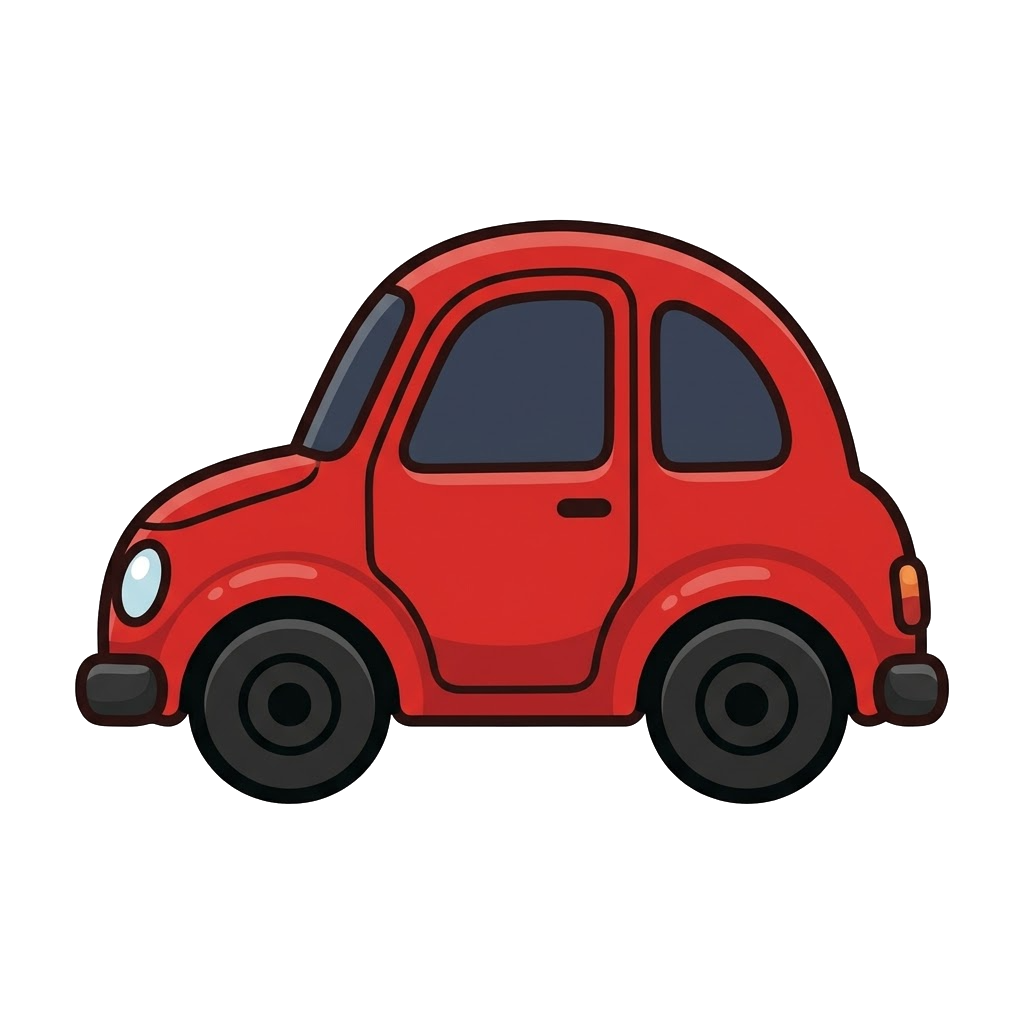
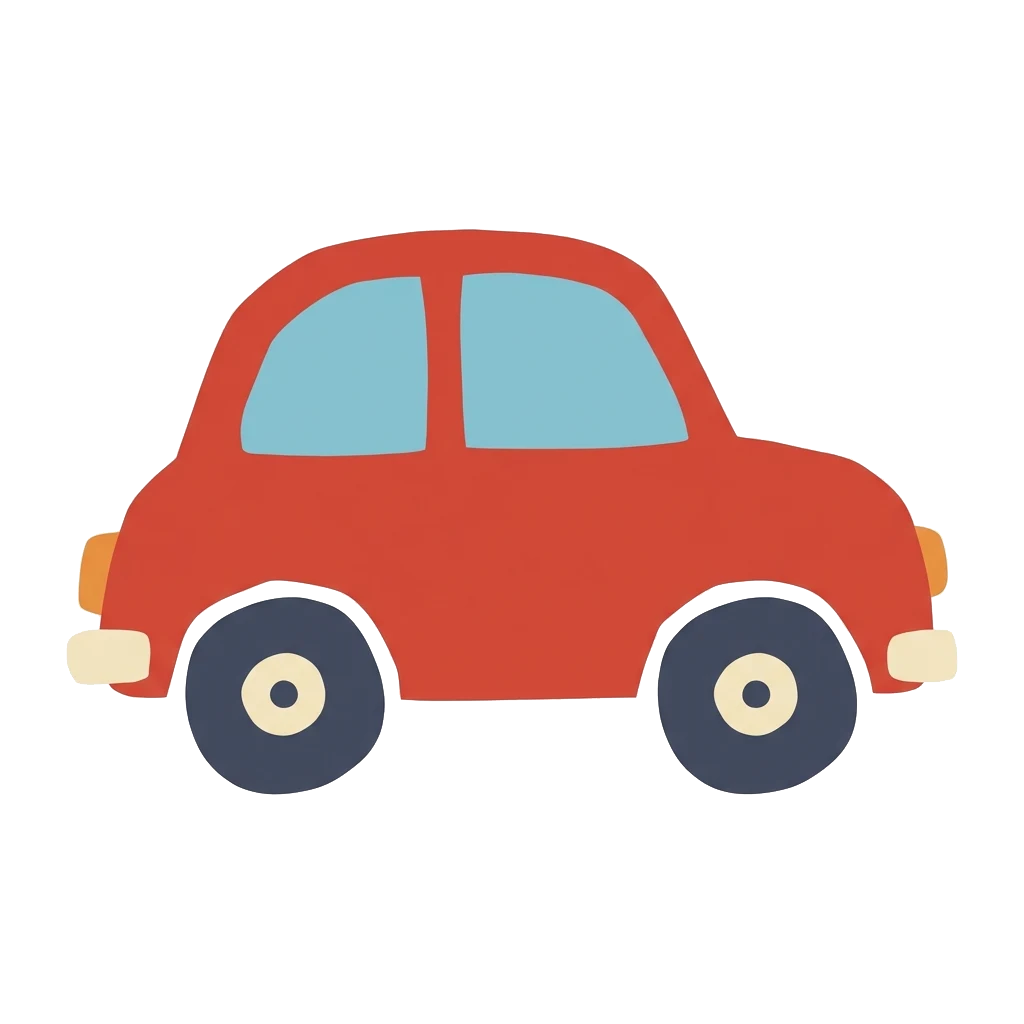
交通工具 11 張換成 Pok Pok 風：無框線平塗色塊、淡藍窗、去背，整組一次換齊
消防車、救護車、警車第一次被 Gemini 切到 Flash-Lite 畫成紙紋風，切回 Hydrogen 重生；
白車身改米白才不會被去背淹掉。選單 2 跑過 69/69。CLAUDE.md 補上模式與白色主體的注意事項。

diff --git a/CLAUDE.md b/CLAUDE.md
@@ -44,7 +44,7 @@
 ## 素材現況（2026-11-04）
 
 - 主題 7 組：動物 12、水果 12、交通工具 11、工程車 8、顏色 8（程式畫色球）、生活用品 10（Gemini，2026-11-04）、身體 8（Gemini，2026-11-04，小熊指著該部位）。**七組全部有圖，69 張卡的圖與語音都已接進 Deck 資產**（2026-11-05 跑完選單 2 確認 69/69）。注意「有 PNG」不等於「Deck 接上了」：丟完素材沒跑選單 2 的話，Deck 裡的 `image` 會留在 `{fileID: 0}`，整組就退回純文字卡——身體與生活用品兩組就這樣空轉過一段時間。要查就 grep `Assets/BabyApp/Resources/Decks/Deck_*.asset` 還有沒有 `image: {fileID: 0}`。身體卡的 prompt：「Same style, same honey bear character. Subject: the honey bear cub <動作>, front view, whole body visible.」，第一張要先貼小熊角色設定。
-- **2026-11-12 起改成 Pok Pok 風（平塗色塊、無框線、無陰影，見 docs/research/2026-11-12-PokPok風格.md 第 9 節）**，動物 12 張、水果 12 張（2026-11-13）與小熊 5 張已換成新風格並去背；交通工具生到 8/11（汽車～機車在 `tools/gemini-incoming/`，缺消防車、救護車、警車）；交通工具、工程車、生活用品、身體與 4 張封面在 Assets 裡還是舊的粗黑邊風格，待換（整組換齊才搬進 Assets，不要一組裡兩種風格）。舊圖全部 Gemini 生成並去背（2026-10-23）。OpenMoji 已不再使用（tools/openmoji-* 只是歷史）。
+- **2026-11-12 起改成 Pok Pok 風（平塗色塊、無框線、無陰影，見 docs/research/2026-11-12-PokPok風格.md 第 9 節）**，動物 12 張、水果 12 張（2026-11-13）、交通工具 11 張（2026-11-14）與小熊 5 張已換成新風格並去背；工程車、生活用品、身體與 4 張封面在 Assets 裡還是舊的粗黑邊風格，待換（整組換齊才搬進 Assets，不要一組裡兩種風格）。舊圖全部 Gemini 生成並去背（2026-10-23）。OpenMoji 已不再使用（tools/openmoji-* 只是歷史）。
 - 叫聲：25 個來自 Wikimedia Commons（出處在 docs/素材授權.md）。卡車＝柴油引擎、消防車＝消防鐘、工程車組共用柴油、堆高機專屬。兔子沒叫聲。
 - 名稱語音與小熊台詞（2026-11-05 換成 **Azure AI Speech**）：中文 `zh-TW-HsiaoYuNeural`（曉雨，使用者試聽三個聲音後選的）、英文 `en-US-AvaMultilingualNeural`，語速 -10%，全部是剪掉頭尾靜音的 24kHz `.wav`（卡名 0.4～0.8 秒，以前 edge-tts 每個都墊到 1.87 秒）。工具 `python tools/make-voices-azure.py --voice zh-TW-HsiaoYuNeural --cards --prompts`（`--trial` 試聽到 `tools/azure-trial/`、`--list-voices`），**會蓋掉同名檔**。金鑰放 `tools/azure.key`（第一行 KEY 1、第二行區域 `eastasia`，已 gitignore，記事本存檔會多個 `.txt` 要改掉）；資源是 Free F0 層、每月 50 萬字免費，F0 商用授權不明，**發佈前改 S0 重跑一次整批**。台詞清單在 `tools/prompts.csv`，2026-11-05 全部縮短過（「哇～答對了！你好棒喔！」→「答對了！好棒！」），有逗號的句子要加引號不然 csv 會切掉。舊的 edge-tts `.mp3` 已全刪，`make-voices-edge.py` 只是歷史。**不要跑 `make-prompts.ps1`／`make-voices.ps1`**（舊的 SAPI 版）：它們只檢查 `.wav` 存不存在，會把全部台詞重生成 SAPI 的 `.wav`，而 Builder 的 `Prompt()` 優先吃 `.wav`，小熊的聲音會整個被換掉。
 - 吉祥物：五張蜂蜜小熊 Gemini 生成並去背（Art/Mascot，2026-11-13 換成 Pok Pok 風、無框線）。`EnsureMascotPlaceholders()` 只在檔案缺時畫程式佔位。
@@ -60,7 +60,7 @@
 
 流程：`list_connected_browsers` 先認清哪台是**這台電腦**（`onThisComputer: true`；使用者另一台電腦的 Chrome 也會連著，選錯檔案會存到那台去，2026-11-12 就發生過）→ `select_browser` → `tabs_context_mcp` → 開 gemini.google.com/app → 「+」→「建立圖像」→ 貼 prompt → Enter。生好的圖在頁面上是 `blob:` 的 `<img>`，用 javascript_tool 畫到 canvas → `toBlob` → `<a download="animal_dog.png">`，檔案落在**這個 Chrome 設定檔的下載資料夾**（Profile 1 是 `C:\Users\Bachider\Desktop`，從 `%LOCALAPPDATA%\Google\Chrome\User Data\*\Preferences` 的 `download.default_directory` 查），再 `mv` 進 `tools/gemini-incoming/`（gitignored）→ `python tools/knockout-white.py` 在副本上去背 → cp 進 `Assets/BabyApp/Art/...` → 跑選單 2。
 
-**節奏（會咬人）**：一張 ~40～65 秒。**圖還沒出現就送下一句，前一句的回覆會變成空的**，之後那個對話就壞了（兩句都空）；所以每送一句就輪詢 `img` 數量（naturalWidth ≥ 512、排除 gstatic）確認多了一張才送下一句，一句最多等 ~2 分鐘，沒圖就重送同一句一次（2026-11-13 水果 9 張：西瓜、鳳梨各空一次、重送就有，其餘一次過）。輪詢放在頁面 JS 裡等（`await __wait(n, 38000)`），**單次 `javascript_tool` 超過 45 秒會 CDP 逾時**，所以一次最多等 38 秒、多叫幾次。每一組卡用**新對話**，第一句貼完整風格段落 + 主體，之後只貼「Same style exactly (flat hand-cut paper, solid fills, NO outlines, …). Subject: …」。一次 browser_batch 最多 25 個動作；視窗窄時用 `find` 拿 ref 而不是座標。**額度**：免費層一天約 25～30 張就會開始偶爾空回覆，最後 Gemini 直接回「我的程式設計裡沒有這樣的功能」或「I can create more images as soon as your limit resets」= 今天沒了；後者下面會有一塊「已達上限」面板寫重設時間（2026-11-13 看到的是上午 6:26），等那個時間過了再來。
+**節奏（會咬人）**：一張 ~40～65 秒。**圖還沒出現就送下一句，前一句的回覆會變成空的**，之後那個對話就壞了（兩句都空）；所以每送一句就輪詢 `img` 數量（naturalWidth ≥ 512、排除 gstatic）確認多了一張才送下一句，一句最多等 ~2 分鐘，沒圖就重送同一句一次（2026-11-13 水果 9 張：西瓜、鳳梨各空一次、重送就有，其餘一次過）。輪詢放在頁面 JS 裡等（`await __wait(n, 38000)`），**單次 `javascript_tool` 超過 45 秒會 CDP 逾時**，所以一次最多等 38 秒、多叫幾次。每一組卡用**新對話**，第一句貼完整風格段落 + 主體，之後只貼「Same style exactly (flat hand-cut paper, solid fills, NO outlines, …). Subject: …」。**模式要是「4 Hydrogen」**（右下角模式挑選器）：額度用完後 Gemini 會自己切到「3.5 Flash-Lite」，隔天也不會切回來，Flash-Lite 畫出來是另一套（紙張紋理灰白底、細線條、淡陰影、白車身白窗戶），2026-11-14 消防車／救護車／警車就這樣重生過一次；白色主體要寫 `cream-white body (warm cream #f3eedf, not pure white)`，不然去背會把車身一起淹掉。一次 browser_batch 最多 25 個動作；視窗窄時用 `find` 拿 ref 而不是座標。**額度**：免費層一天約 25～30 張就會開始偶爾空回覆，最後 Gemini 直接回「我的程式設計裡沒有這樣的功能」或「I can create more images as soon as your limit resets」= 今天沒了；後者下面會有一塊「已達上限」面板寫重設時間（2026-11-13 看到的是上午 6:26），等那個時間過了再來。
 
 ## 待辦 / 想法
 
